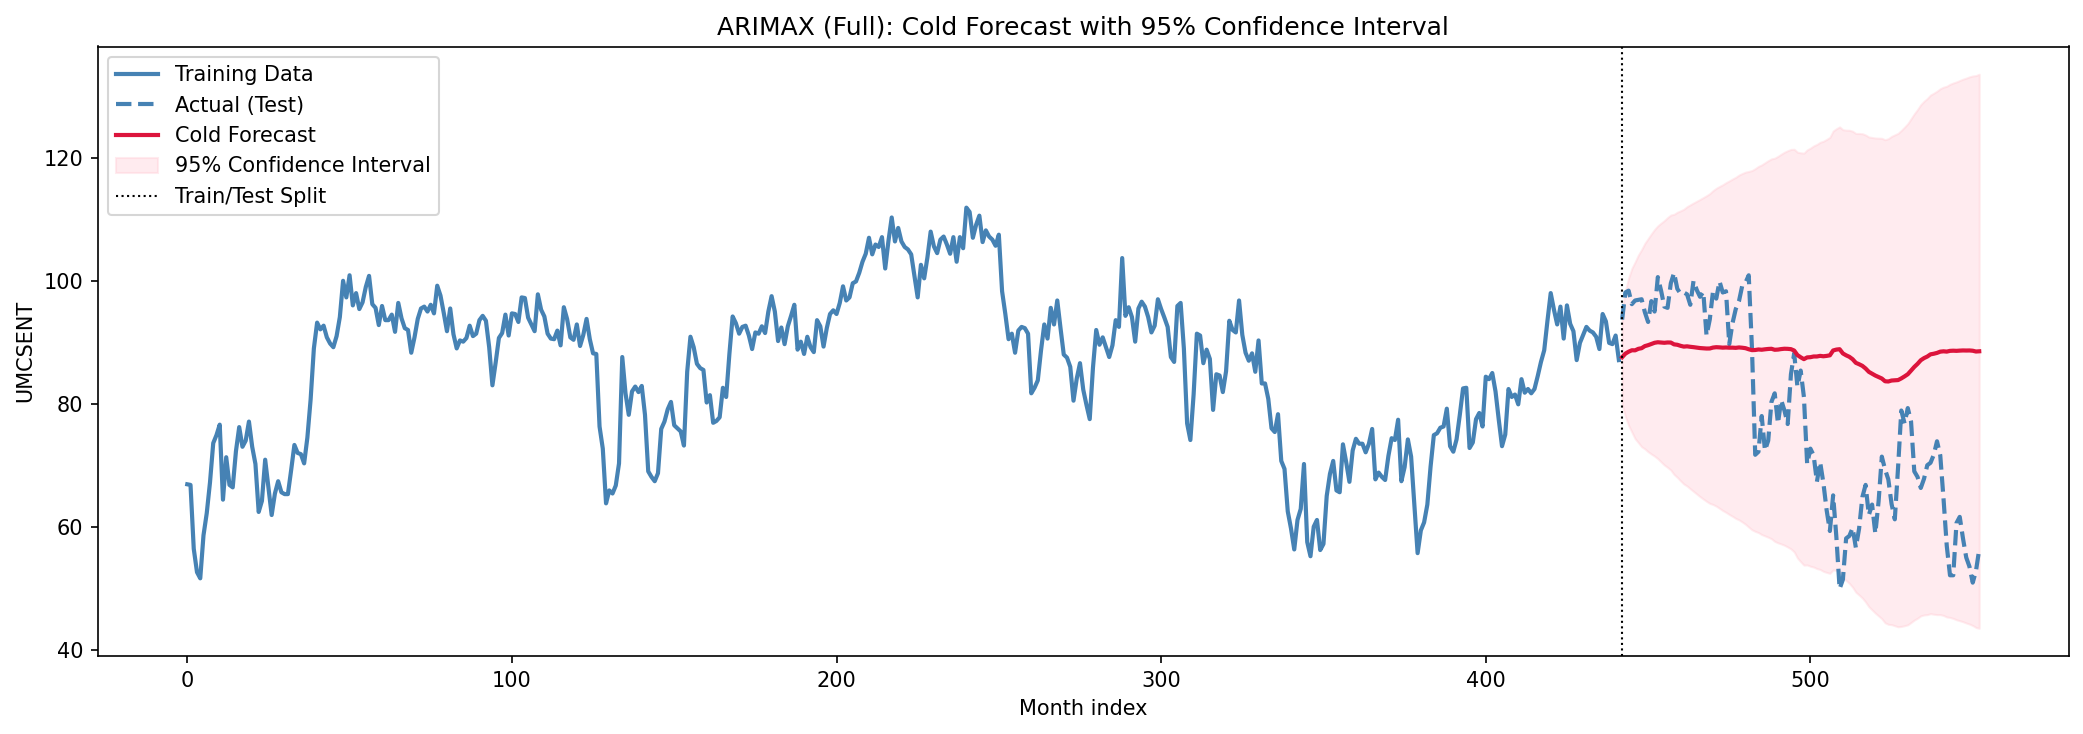
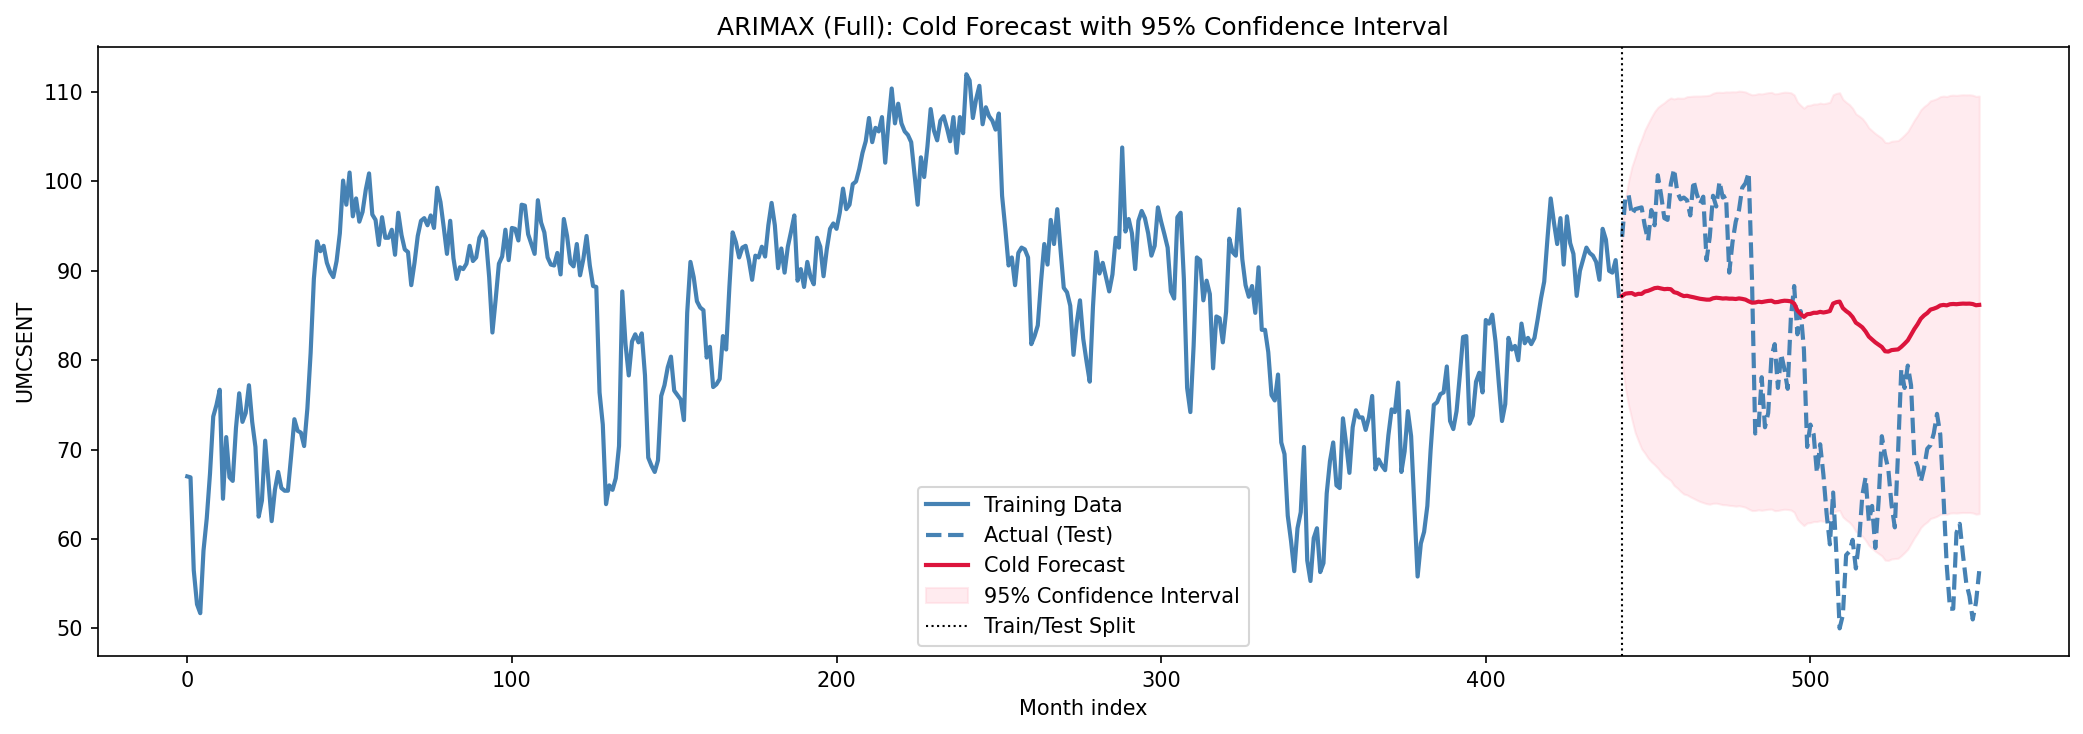
wrong parameter

diff --git a/SCRIPTS/arimax_full.py b/SCRIPTS/arimax_full.py
@@ -49,7 +49,7 @@ print(f"ADF (differenced): {adf_diff[0]:.4f}, p={adf_diff[1]:.4f}")
 
 #Fit ARIMAX and generate cold forecast
 print("\nFitting ARIMAX model...")
-model = ARIMA(train_y, exog=train_x, order=(1, 1, 1))
+model = ARIMA(train_y, exog=train_x, order=(1, 0, 1))
 model_fit = model.fit()
 
 forecast_result = model_fit.get_forecast(steps=len(test_y), exog=test_x.values)

diff --git a/SCRIPTS/arimax_precovid.py b/SCRIPTS/arimax_precovid.py
@@ -62,7 +62,7 @@ print(f"ADF (differenced): {adf_diff[0]:.4f}, p={adf_diff[1]:.4f}")
 
 #Fit ARIMAX and generate cold forecast
 print("\nFitting ARIMAX model...")
-model = ARIMA(train_y, exog=train_x, order=(1, 1, 1))
+model = ARIMA(train_y, exog=train_x, order=(1, 0, 1))
 model_fit = model.fit()
 
 forecast_result = model_fit.get_forecast(steps=len(test_y), exog=test_x.values)
